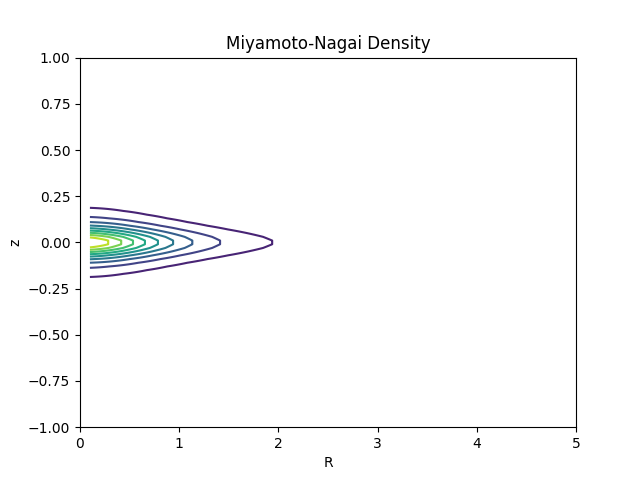
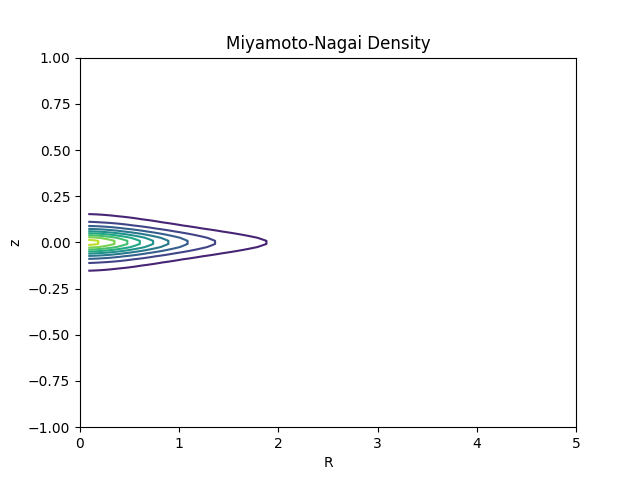
added plotting for 2d axisymmetric functions

Changed region(s): [[0.125, 0.4062, 0.4375, 0.5938]]

diff --git a/backend/galaxy_distribution2.py b/backend/galaxy_distribution2.py
@@ -1,0 +1,161 @@
+import numpy as np
+import matplotlib.pyplot as plt
+import json
+import astropy.units as u
+from mcmc import metropolis_hastings
+from galpy.potential import MiyamotoNagaiPotential, HernquistPotential, NFWPotential
+
+# Galaxy generation function
+class Galaxy:
+    def __init__(self, name, components, num_bodies=1000000, g_const=1, pos_units=u.kpc, vel_units=u.km/u.s, mass_units=u.M_sun, density_units=u.M_sun/u.kpc**3, potential_units=u.km**2/u.s**2, time_units=u.Gyr, angle_units=u.rad):
+        self.name = name
+        self.components = components
+        self.num_bodies = num_bodies
+        self.g_const = g_const
+        self.total_mass = self.get_total_mass()
+        
+        # Set component potentials to galpy potentials using astropy units
+        for component in self.components:
+            for potential in component['potentials']:
+                if potential['type'] == 'Miyamoto-Nagai':
+                    parameters = potential['parameters']
+                    potential['galpy_potential'] = MiyamotoNagaiPotential(a=parameters['a']*pos_units, b=parameters['b']*pos_units, normalize=1)
+                elif potential['type'] == 'Hernquist':
+                    parameters = potential['parameters']
+                    potential['galpy_potential'] = HernquistPotential(a=parameters['a']*pos_units)
+                elif potential['type'] == 'NFW':
+                    potential['parameters'].update({'normalise': 1})
+                    potential['galpy_potential'] = NFWPotential(a=parameters['a']*pos_units)
+        
+        self.total_potential = self.get_total_potential()
+        
+        # Generate bodies from components
+        for component in self.components:
+            if not component['dark matter']:
+                num_bodies_comp = round((self.get_component_mass(component)/self.total_mass) * self.num_bodies) # Number of bodies in component
+                positions = self.generate_positions(component, num_bodies_comp)
+                velocities = self.generate_velocities(positions, self.total_potential)
+                component.update({'bodies': {'positions': positions, 'velocities': velocities}})
+                    
+    # Get total mass of galaxy from all components    
+    def get_total_mass(self):
+        total_mass = 0
+        for component in self.components:
+            if not component['dark matter']:
+                for potential in component['potentials']:
+                    total_mass += potential['parameters']['mass']
+        return total_mass
+    
+    # Get mass of a single component
+    def get_component_mass(self, component):
+        component_mass = 0
+        for potential in component['potentials']:
+            component_mass += potential['parameters']['mass']
+        return component_mass
+    
+    # Get total potential of galaxy from all components
+    def get_total_potential(self):
+        potentials = []
+        for component in self.components:
+            for potential in component['potentials']:
+                potentials.append(potential['galpy_potential'])
+        
+        total_potential = potentials[0]
+        for potential in potentials[1:]:
+            total_potential += potential
+        
+        return total_potential
+    
+    # Generate positions of bodies from component
+    def generate_positions(self, component, num_bodies):
+        print(f'Generating {num_bodies} bodies for {component["name"]}')
+        positions = np.empty((0, 3))
+        for potential in component['potentials']:
+            
+            pot_mass = potential['parameters']['mass']
+            pot_bodies = round((pot_mass/self.get_component_mass(component)) * num_bodies)
+            
+            if potential['type'] == 'Miyamoto-Nagai': # Miyamoto-Nagai (Axisymmetric potentials)
+                density = lambda R, z: potential['galpy_potential'].dens(R, z, 0)
+                samples = metropolis_hastings(density, 2, pot_bodies)
+                theta = np.random.uniform(0, 2*np.pi, pot_bodies)
+                
+                R = samples[:, 0]
+                z = samples[:, 1]
+                
+                x = R * np.cos(theta)
+                y = R * np.sin(theta)
+                
+                positions = np.vstack((positions, np.column_stack((x, y, z))))
+                
+            else: # Hernquist or NFW (Spherical potentials) 
+                density = lambda r: potential['galpy_potential'].dens(r + 1e-10, 0)
+                samples = metropolis_hastings(density, 1, num_bodies)
+                print(samples)
+                direction = np.random.normal(size=(num_bodies, 3))
+                direction /= np.linalg.norm(direction, axis=1).reshape(-1, 1)
+                print(direction)
+                
+                positions = np.vstack((positions, samples * direction))
+        
+        return positions
+    
+    def generate_velocities(self, bodies, total_potential):
+        pass
+    
+    def plot_rotational_vel(self):
+        pass
+    
+    # Plot density of galaxy in a hexbin plot (as function of R and z)
+    def plot_scatter_density(self):
+        positions = np.empty((0, 3))
+        for component in self.components:
+            if 'bodies' in component:
+                positions = np.vstack((positions, component['bodies']['positions']))
+            
+        R = np.sqrt(positions[:, 0]**2 + positions[:, 1]**2)
+        
+        plt.figure()
+        plt.hexbin(R, positions[:, 2], gridsize=50, cmap='plasma', bins='log')
+        plt.colorbar()
+        plt.title(f'{self.name} Density')
+        plt.xlabel('R (kpc)')
+        plt.ylabel('z (kpc)')
+
+        plt.savefig(f'backend/galaxy_plots/{self.name}_density_hexbin.png')
+        
+    def plot_component_scatter(self):
+        plt.figure()
+        for component in self.components:
+            if 'bodies' in component:
+                positions = component['bodies']['positions']
+                R = np.sqrt(positions[:, 0]**2 + positions[:, 1]**2)
+                print(component['name'])
+                print(np.mean(R), np.mean(positions[:, 2]), np.std(R), np.std(positions[:, 2]))
+                plt.scatter(R, positions[:, 2], label=component['name'], s=1)
+        plt.legend()
+        plt.title(f'{self.name} Component Scatter')
+        plt.xlabel('R (kpc)')
+        plt.ylabel('z (kpc)')
+        #plt.xscale('log')
+        plt.savefig(f'backend/galaxy_plots/{self.name}_component_scatter.png')
+        
+        
+        
+                    
+    
+    
+    
+    
+
+def main():
+    with open('backend/galaxies/generic.json', 'r') as f:
+        galaxy_json = json.load(f)
+    galaxy = Galaxy(galaxy_json['name'], galaxy_json['components'], num_bodies=1000000)
+    print(galaxy.total_mass)
+    galaxy.plot_scatter_density()
+    galaxy.plot_component_scatter()
+    
+    
+if __name__ == "__main__":
+    main()

diff --git a/backend/mcmc.py b/backend/mcmc.py
@@ -1,37 +1,7 @@
 import numpy as np
 import matplotlib.pyplot as plt
-from galpy.potential import MiyamotoNagaiPotential
+from galpy.potential import MiyamotoNagaiPotential, HernquistPotential
 from tqdm import tqdm
-
-# Metropolis-Hastings MCMC algorithm for distributing stars in galaxies
-
-P = lambda x: 3 * np.exp(-x*x/2) + np.exp(-(x - 4)**2/2)
-Z = 10.0261955464
-
-x_vals = np.linspace(-10, 10, 1000)
-y_vals = P(x_vals)
-plt.figure(1)
-plt.plot(x_vals, y_vals, 'r', label='P(x)')
-plt.legend(loc='upper right', shadow=True)
-plt.savefig('backend/mcmc_plots/p_x.png')
-
-# Plot density for Miyamoto-Nagai potential
-R = np.linspace(0.1, 10, 1000)
-z = np.linspace(-10, 10, 1000)
-a = 1
-b = 0.1
-R, z = np.meshgrid(R, z)
-potential = MiyamotoNagaiPotential(a=a, b=b, normalize=1)
-density = potential.dens(R, z, 0)
-plt.figure(2)
-plt.contour(R/a, z/a, density, 10)
-plt.title('Miyamoto-Nagai Density')
-plt.xlabel('R')
-plt.ylabel('z')
-plt.xlim(0, 5)
-plt.ylim(-1, 1)
-plt.savefig('backend/mcmc_plots/miyamoto_nagai_density.png')
-print('MCMC plots saved to backend/mcmc_plots')
 
 # Metropolis-Hastings MCMC algorithm for multivariate distributions
 def metropolis_hastings(target_density, dimensions, n_samples, burn_in=1000):
@@ -45,25 +15,58 @@ def metropolis_hastings(target_density, dimensions, n_samples, burn_in=1000):
         if np.random.uniform() < acceptance_probability:
             xt = xt_candidate
         samples[i] = xt
+            
     return samples[burn_in:]
-    
 
-# Sample from Miyamoto-Nagai potential density using MCMC
-n_samples = 1000000
-density = lambda R, z: potential.dens(R, z, 0)
-samples = metropolis_hastings(density, 2, n_samples)
 
-# Plot samples from Miyamoto-Nagai potential density
-plt.figure(3)
-xmin, xmax = 0, 5
-ymin, ymax = -1, 1
-plt.hexbin(samples[:, 0], samples[:, 1], gridsize=50, cmap='plasma', extent=[xmin, xmax, ymin, ymax], bins='log')
-plt.colorbar()
-plt.title('Miyamoto-Nagai Potential Samples')
-plt.xlabel('R')
-plt.ylabel('z')
-plt.xlim(0, 5)
-plt.ylim(-1, 1)
-plt.savefig('backend/mcmc_plots/miyamoto_nagai_samples_hexbin.png')
+def main():
+    P = lambda x: 3 * np.exp(-x*x/2) + np.exp(-(x - 4)**2/2)
+    Z = 10.0261955464
 
+    x_vals = np.linspace(-10, 10, 1000)
+    y_vals = P(x_vals)
+    plt.figure(1)
+    plt.plot(x_vals, y_vals, 'r', label='P(x)')
+    plt.legend(loc='upper right', shadow=True)
+    plt.savefig('backend/mcmc_plots/p_x.png')
+
+    # Plot density for Miyamoto-Nagai potential
+    R = np.linspace(0.1, 10, 1000)
+    z = np.linspace(-10, 10, 1000)
+    a = 1.2
+    b = 0.1
+    R, z = np.meshgrid(R, z)
+    potential = MiyamotoNagaiPotential(a=a, b=b, normalize=1)
+    density = potential.dens(R, z, 0)
+    plt.figure(2)
+    plt.contour(R/a, z/a, density, 10)
+    plt.title('Miyamoto-Nagai Density')
+    plt.xlabel('R')
+    plt.ylabel('z')
+    plt.xlim(0, 5)
+    plt.ylim(-1, 1)
+    plt.savefig('backend/mcmc_plots/miyamoto_nagai_density.png')
+    print('MCMC plots saved to backend/mcmc_plots')
+
+    # Sample from Miyamoto-Nagai potential density using MCMC
+    n_samples = 1000000
+    density = lambda R, z: potential.dens(R, z, 0)
+    samples = metropolis_hastings(density, 2, n_samples)
+
+    # Plot samples from Miyamoto-Nagai potential density
+    plt.figure(3)
+    xmin, xmax = 0, 5
+    ymin, ymax = -1, 1
+    plt.hexbin(samples[:, 0]/a, samples[:, 1]/a, gridsize=50, cmap='plasma', extent=[xmin, xmax, ymin, ymax], bins='log')
+    plt.colorbar()
+    plt.title('Miyamoto-Nagai Potential Samples')
+    plt.xlabel('R/a')
+    plt.ylabel('z/a')
+    plt.xlim(0, 5)
+    plt.ylim(-1, 1)
+    plt.savefig('backend/mcmc_plots/miyamoto_nagai_samples_hexbin.png')
+
+
+if __name__ == "__main__":
+    main()
 

diff --git a/backend/inverse_sampling.py b/backend/inverse_sampling.py
@@ -1,0 +1,43 @@
+import numpy as np
+import matplotlib.pyplot as plt
+from galpy.potential import HernquistPotential
+import tqdm as tqdm
+
+def mass_fraction_sampling(density, num_samples, total_mass=1):
+    mass_fractions = np.linspace(0, 1, num_samples)
+    
+    
+    
+    
+    return samples
+
+
+def main():
+    num_samples = 100
+    hernquist = HernquistPotential(a=1, normalize=1)
+    density = lambda r: hernquist.dens(r, 0)
+    samples = mass_fraction_sampling(density, num_samples)
+    #print(samples)
+    plt.figure(1)
+    plt.hist(samples, bins=100, density=True, color='r', alpha=0.7, label='Inverse Sampling')
+    r = np.linspace(0, 2, 1000)
+    plt.plot(r, density(r), 'r', label='Hernquist Density')
+    plt.legend(loc='upper right', shadow=True)
+    plt.title('Inverse Sampling of Hernquist Density')
+    plt.xlabel('r')
+    plt.ylabel('Density')
+    plt.xlim(-0.1, 2)
+    plt.savefig('backend/inverse_sampling_plots/hernquist_density.png')
+    
+    '''# Plot CDF of Hernquist density
+    cdf, r = mass_fraction_sampling(density, num_samples)
+    plt.figure(2)
+    plt.plot(r, cdf, 'r', label='Hernquist CDF')
+    plt.legend(loc='upper right', shadow=True)
+    plt.title('Hernquist CDF')
+    plt.xlabel('r')
+    plt.ylabel('CDF')
+    plt.savefig('backend/inverse_sampling_plots/hernquist_cdf.png')'''
+    
+if __name__ == '__main__':
+    main()
